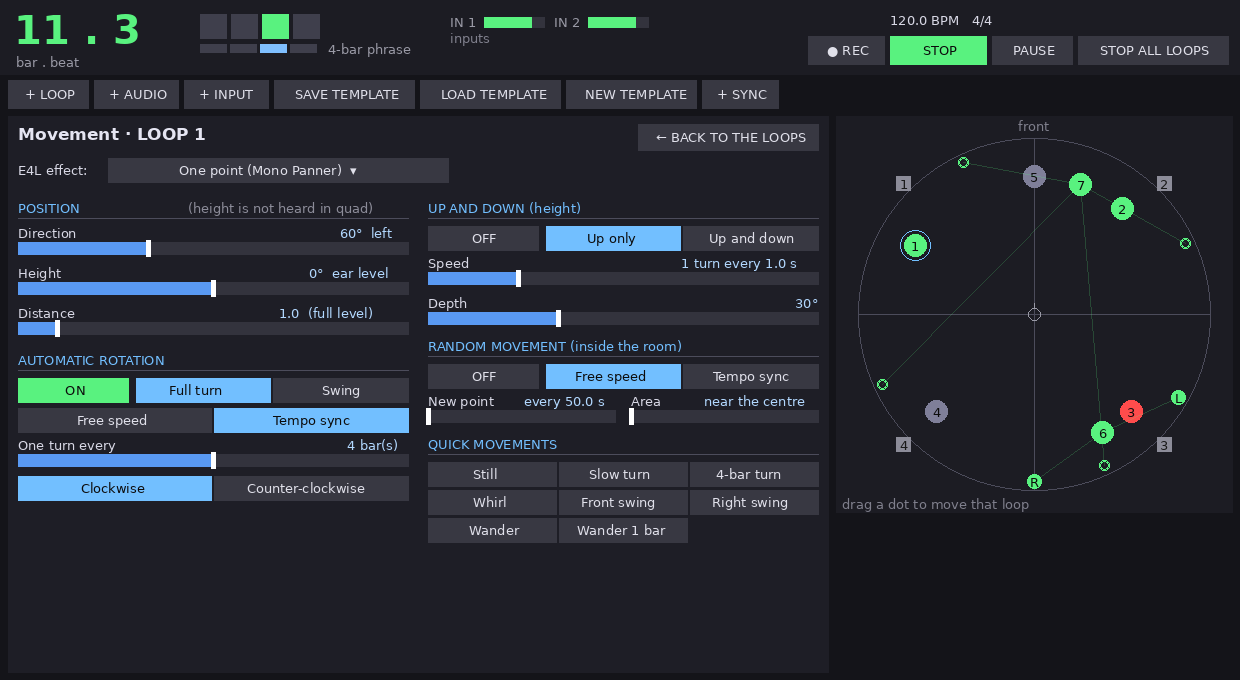
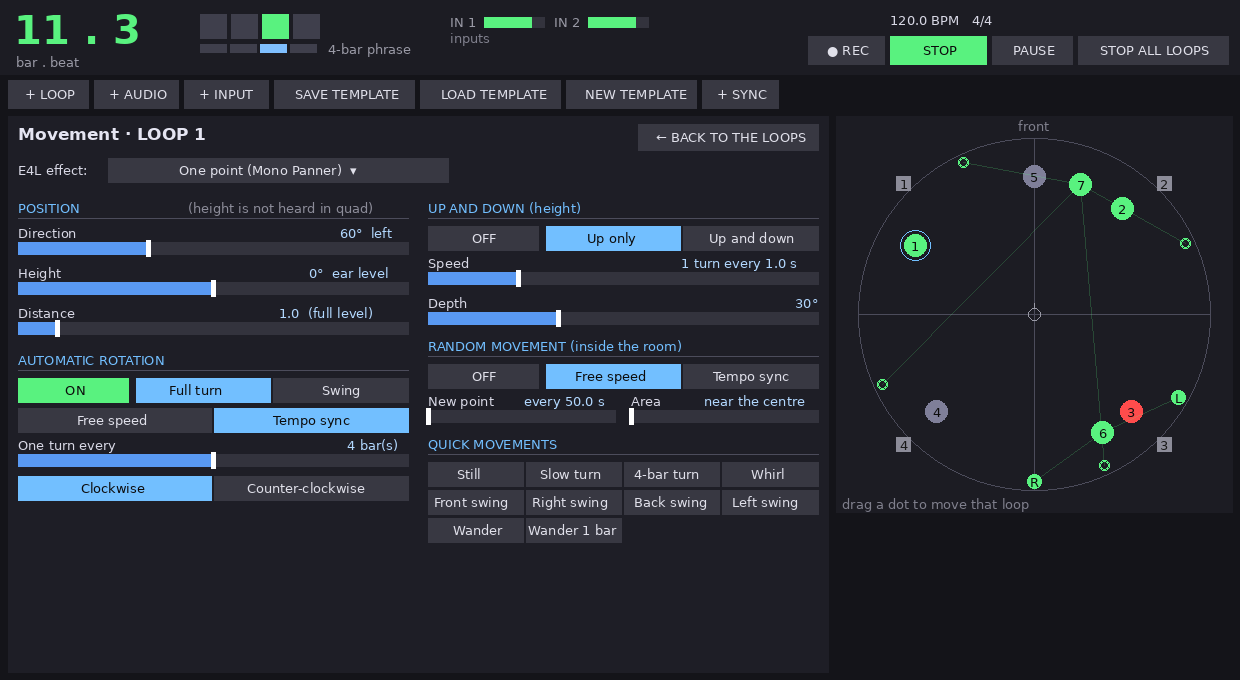
Quick movements: Back swing and Left swing
The four swings (front, right, back, left) are now together; the presets
are laid out 4 per row.

Claude-Session: https://claude.ai/code/session_01HZpQ1jnYDfcf75rDd3gwxR

Changed region(s): [[0.3677, 0.6794, 0.6435, 0.8029]]

diff --git a/tests/test_scripts.py b/tests/test_scripts.py
@@ -157,16 +157,21 @@ check("editor: RANDOM MOVEMENT ON turns the random wander on", param(2, 2, "Rand
 click(c2 + colw - 20, y_rand + 26 + 10)
 check("editor: RANDOM MOVEMENT Tempo sync", param(2, 2, "Random Wander Time Mode") == 1)
 y_pres = y_rand + 26 + 46 + 26 + 26             # Mono panner: no stereo width section
-bw = (colw - 6) / 3
-click(c2 + 2 * (bw + 3) + 10, y_pres + 28 + 10)
+bw = (colw - 9) / 4
+click(c2 + 1 * (bw + 3) + 10, y_pres + 28 + 10)            # Right swing: row 2, column 2
 check("editor: preset Right swing sets azimuth 90, swing ±45 (and stops the random wander)",
       param(2, 2, "Azimuth") == 90 and param(2, 2, "Azimuth LFO Mode") == 1 and param(2, 2, "Azimuth LFO Depth") == 45
       and param(2, 2, "Random Wander On/Off") == 0)
-click(c2 + 10, y_pres + 56 + 10)
+click(c2 + 10, y_pres + 56 + 10)                          # Wander: row 3, column 1
 check("editor: preset Wander: random movement on, free speed, whole room, no rotation",
       param(2, 2, "Random Wander On/Off") == 1 and param(2, 2, "Random Wander Time Mode") == 0
       and param(2, 2, "Random Wander Area") == 1 and param(2, 2, "Azimuth LFO On/Off") == 0)
-click(c2 + 2 * (bw + 3) + 10, y_pres + 28 + 10)     # back to Right swing for the next checks
+click(c2 + 2 * (bw + 3) + 10, y_pres + 28 + 10)            # Back swing
+check("editor: preset Back swing: swing around the back (180)", param(2, 2, "Azimuth") == 180
+      and param(2, 2, "Azimuth LFO Mode") == 1)
+click(c2 + 3 * (bw + 3) + 10, y_pres + 28 + 10)            # Left swing
+check("editor: preset Left swing: swing around the left (-90)", param(2, 2, "Azimuth") == -90)
+click(c2 + 1 * (bw + 3) + 10, y_pres + 28 + 10)            # back to Right swing for the next checks
 lua.execute("function gfx.showmenu() return 2 end")
 click(8 + 100 + 20, TOP + 42 + 10)
 lua.execute("function gfx.showmenu() return 0 end")

diff --git a/docs/build_guide.py b/docs/build_guide.py
@@ -729,7 +729,8 @@ def build(path):
          "random points (near the centre it spreads over all the speakers). <b>New point</b> every N "
          "seconds or bars, <b>Area</b> from near the centre to the whole room. Freezes on pause."],
         ["<b>Quick movements</b>", "One click: <b>Still</b>, <b>Slow turn</b>, <b>4-bar turn</b>, "
-         "<b>Whirl</b>, <b>Front swing</b>, <b>Right swing</b>, <b>Wander</b>, <b>Wander 1 bar</b>."],
+         "<b>Whirl</b>, <b>Front</b> / <b>Right</b> / <b>Back</b> / <b>Left swing</b>, <b>Wander</b>, "
+         "<b>Wander 1 bar</b>."],
     ], [45, 125]))
     st.append(P("Keyboard and MIDI control", "h2"))
     st += bullets([

diff --git a/README.md b/README.md
@@ -210,8 +210,8 @@ The **MOVEMENT** button of each loop opens all its spatial controls in the same 
   points of the floor plan (not only around the circle; near the centre it spreads over all the
   speakers). A new point every N seconds or every N bars; Area from "near the centre" to "whole
   room". Combines with the rotation; freezes on pause. (Mono, Stereo and Quad panners.)
-- **Quick movements:** still, slow turn, 4-bar turn, whirl, front swing, right swing, wander,
-  wander 1 bar.
+- **Quick movements:** still, slow turn, 4-bar turn, whirl, front / right / back / left swing,
+  wander, wander 1 bar.
 - **● REC** (header): records the whole session – what goes to the 4 speakers, after the quad
   decoder – on two tracks `REC 1-2 (speakers)` and `REC 3-4 (speakers)` (REAPER "record output,
   latency compensated"). REC again or STOP ends it; the files go to the project's folder (save
